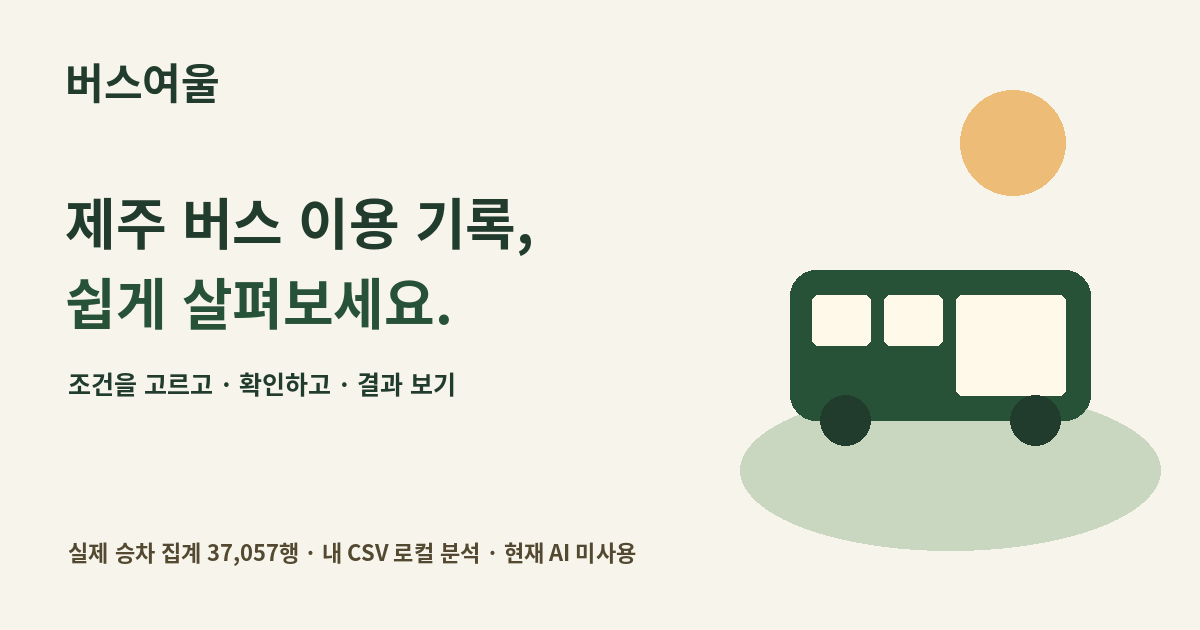
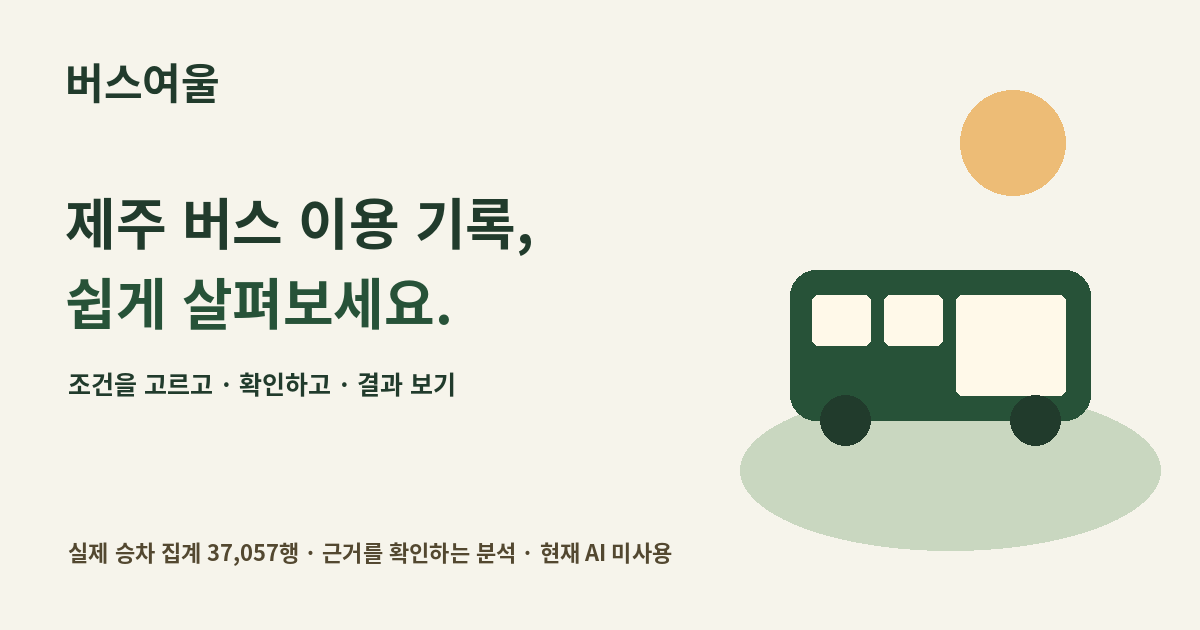
Focus the public interface on verified bus records

Changed region(s): [[0.2467, 0.8444, 0.555, 0.9048]]

diff --git a/web-demo/static/index.html b/web-demo/static/index.html
@@ -1,7 +1,7 @@
-<!doctype html><html lang="ko"><head><meta charset="utf-8"><meta name="viewport" content="width=device-width,initial-scale=1"><title>버스여울 웹 체험판</title><meta name="description" content="버스여울에서 제주 버스 데이터 분석 절차를 체험하세요. 합성 예제와 브라우저 내 CSV 분석을 제공하며 현재 AI는 실행하지 않습니다."><meta property="og:type" content="website"><meta property="og:locale" content="ko_KR"><meta property="og:site_name" content="버스여울"><meta property="og:title" content="버스여울 | 제주 버스 기록을 쉽게"><meta property="og:description" content="조건을 고르고, 확인하고, 결과 보기. 합성 예제 체험과 브라우저 내 CSV 분석 · 현재 AI 미사용"><meta property="og:url" content="https://busyeoul-demo.vercel.app/"><meta property="og:image" content="https://busyeoul-demo.vercel.app/static/social-preview.png"><meta property="og:image:type" content="image/png"><meta property="og:image:width" content="1200"><meta property="og:image:height" content="630"><meta property="og:image:alt" content="버스여울, 제주 버스 이용 기록을 쉽게 살펴보는 웹 체험판"><meta name="twitter:card" content="summary_large_image"><meta name="twitter:title" content="버스여울 | 제주 버스 기록을 쉽게"><meta name="twitter:description" content="합성 예제 체험과 브라우저 내 CSV 분석 · 현재 AI 미사용"><meta name="twitter:image" content="https://busyeoul-demo.vercel.app/static/social-preview.png"><link rel="icon" type="image/svg+xml" href="/static/favicon.svg"><link rel="stylesheet" href="/static/styles.css"><link rel="stylesheet" href="/static/local-csv.css"></head><body><a class="skip-link" href="#guided-input">분석 조건 선택으로 바로 가기</a>
-<header class="topbar"><a class="brand" href="/"><img class="brand-icon" src="/static/favicon.svg" width="48" height="48" alt=""> <span>버스여울 체험판<small>제주 버스 기록 살펴보기</small></span></a><span class="local-tag">합성 예제 · AI 미사용</span></header><main><div class="mode-notice" role="note"><strong>실제 데이터·AI 없는 절차 시연</strong><p>아래 체험은 합성 예제와 규칙만 사용합니다. 실제 제주 승차 기록이나 AI 응답이 아닙니다. 내 CSV 분석은 파일을 브라우저 안에서만 읽으며 서버에 보내지 않습니다. 질문에는 개인정보를 입력하지 마세요.</p></div><section id="local-csv-panel"></section>
+<!doctype html><html lang="ko"><head><meta charset="utf-8"><meta name="viewport" content="width=device-width,initial-scale=1"><title>버스여울 | 제주 버스 데이터 분석</title><meta name="description" content="버스여울에서 제주 버스 데이터 분석 절차를 체험하세요. 과거 승차 집계를 근거와 함께 살펴보며 현재 AI는 실행하지 않습니다."><meta property="og:type" content="website"><meta property="og:locale" content="ko_KR"><meta property="og:site_name" content="버스여울"><meta property="og:title" content="버스여울 | 제주 버스 기록을 쉽게"><meta property="og:description" content="조건을 고르고, 확인하고, 결과 보기. 제주 버스 기록의 흐름과 비교 근거 · 현재 AI 미사용"><meta property="og:url" content="https://busyeoul-demo.vercel.app/"><meta property="og:image" content="https://busyeoul-demo.vercel.app/static/social-preview.png"><meta property="og:image:type" content="image/png"><meta property="og:image:width" content="1200"><meta property="og:image:height" content="630"><meta property="og:image:alt" content="버스여울, 제주 버스 이용 기록을 쉽게 살펴보는 웹 체험판"><meta name="twitter:card" content="summary_large_image"><meta name="twitter:title" content="버스여울 | 제주 버스 기록을 쉽게"><meta name="twitter:description" content="제주 버스 기록의 흐름과 비교 근거 · 현재 AI 미사용"><meta name="twitter:image" content="https://busyeoul-demo.vercel.app/static/social-preview.png"><link rel="icon" type="image/svg+xml" href="/static/favicon.svg"><link rel="stylesheet" href="/static/styles.css"></head><body><a class="skip-link" href="#guided-input">분석 조건 선택으로 바로 가기</a>
+<header class="topbar"><a class="brand" href="/"><img class="brand-icon" src="/static/favicon.svg" width="48" height="48" alt=""> <span>버스여울<small>제주 버스 기록 살펴보기</small></span></a><span class="local-tag">합성 예제 · AI 미사용</span></header><main><div class="mode-notice" role="note"><strong>실제 데이터·AI 없는 절차 시연</strong><p>아래 체험은 합성 예제와 규칙만 사용합니다. 실제 제주 승차 기록이나 AI 응답이 아닙니다. 질문에는 개인정보를 입력하지 마세요.</p></div>
 <section class="hero"><div class="hero-copy"><p class="eyebrow">합성 자료로 분석 절차를 체험하세요</p><h1>제주 버스 이용 기록,<br><span>쉽게 살펴보세요.</span></h1><p class="lede">날짜와 보고 싶은 내용을 고르면 됩니다.<br>계산하기 전에 조건을 한 번 더 확인해요.</p><ol class="start-steps" aria-label="이용 순서"><li><b>1</b> 조건 고르기</li><li><b>2</b> 조건 확인하기</li><li><b>3</b> 결과 보기</li></ol></div><div class="hero-art" aria-hidden="true"><div class="art-sun"></div><svg viewBox="0 0 360 220"><path d="M0 180Q70 100 180 170T360 160V220H0Z" fill="#b2c6ac"/><rect x="88" y="103" width="175" height="83" rx="15" fill="#365c4a"/><rect x="104" y="116" width="35" height="29" rx="4" fill="#fff4d8"/><rect x="148" y="116" width="35" height="29" rx="4" fill="#fff4d8"/><rect x="192" y="116" width="52" height="53" rx="4" fill="#fff4d8"/><circle cx="125" cy="186" r="15" fill="#24392e"/><circle cx="225" cy="186" r="15" fill="#24392e"/></svg><div class="art-note">숫자 뒤의 조건까지<br>함께 살펴보는 분석.</div></div></section>
 <div class="mode-notice"><span>해석 전 꼭 확인하세요</span><strong>이용 기록은 혼잡도나 좌석 여유를 뜻하지 않아요.</strong><p>정류장·노선·지역 정보는 없습니다. 기록이 없는 조합을 이용자 0명으로 간주하지 않습니다.</p></div>
 <div class="workspace"><aside class="sources-panel panel"><div class="section-kicker">1 · 날짜와 유형</div><h2>언제, 누구의 기록인가요?</h2><div id="catalog-status" role="status">자료 정보를 불러오는 중…</div><form id="filters"><label for="start">시작일</label><input id="start" type="date" required><label for="end">종료일</label><input id="end" type="date" required><label for="user-type">이용자 유형</label><select id="user-type"><option>전체</option></select><p id="type-warning" class="muted" hidden>전체 유형은 미기록 영향으로 실제 평균을 추정하지 않습니다.</p></form><button id="retry" class="text-button" hidden>자료 정보 다시 불러오기 ↻</button><div class="source-footnote"><p id="catalog-detail"></p></div><div id="catalog-warnings"></div></aside>
 <section class="main-panel"><form id="question-form" class="question-panel panel"><div class="section-kicker">2 · 보고 싶은 내용</div><section id="guided-input" class="guided-input" aria-labelledby="guided-title"><h3 id="guided-title">무엇을 살펴볼까요?</h3><p class="muted">날짜와 이용자 유형을 먼저 고르고, 아래에서 보고 싶은 내용을 골라 주세요.</p><div class="guided-fields"><label for="guided-goal">보고 싶은 내용<select id="guided-goal"><option value="time">시간대 비교</option><option value="weekday">요일 비교</option><option value="month">월별 비교</option><option value="user_type">이용자 유형 비교</option><option value="summary">선택 범위 전체 요약</option></select></label><label for="guided-metric">숫자 계산 방법<select id="guided-metric"><option value="total">기록 합계</option><option value="daily">기록 일평균</option><option value="hourly" selected>기록 시간당 일평균</option></select></label></div><p id="guided-hint" class="muted" role="status"></p><button id="guided-plan" type="button" class="secondary" disabled>선택한 조건 확인하기 →</button><p class="muted">처음이라면 기본 선택 그대로 시작해도 됩니다. 기록이 빠진 부분은 따로 알려드려요.</p></section><details id="free-question" class="free-question"><summary>직접 질문 쓰기 · 두 기간 비교</summary><p class="muted">정해진 날짜·유형·집계 표현만 지원합니다. 복잡하거나 모호한 조건은 임의로 계산하지 않습니다.</p><label for="question"><h2>어떤 흐름이 궁금한가요?</h2></label><textarea id="question" rows="3" maxlength="500" placeholder="예: 시간대별 버스 이용 기록을 비교해줘"></textarea><div class="example-row"><button type="button" class="example">시간대별 이용 기록을 비교해줘</button><button type="button" class="example">요일별 이용 기록을 보여줘</button><button type="button" class="example">월별 이용 기록을 비교해줘</button><button type="button" class="example">이용자 유형별로 비교해줘</button></div><button type="button" class="example">2024년1월과2월 일반 일평균 비교</button><button type="button" class="example">2024-01-01~2024-01-07과 2024-02-05~2024-02-11 비교</button><p class="muted">처음이라면 1월·2월 예시를 선택하세요. 원지표 비교 조건을 확인한 뒤 결과의 요일 표준화와 수치 주장 검증을 이어갈 수 있습니다.</p><div class="form-bottom"><span>개인정보는 입력하지 마세요.</span><button id="analyze" class="primary" disabled>계획 확인하기 ↗</button></div></details></form><section id="plan-card" class="panel quality-panel" hidden aria-live="polite"><h2>계산할 조건을 확인해 주세요</h2><p class="muted">질문의 날짜·유형이 화면 필터보다 우선 적용될 수 있습니다. 아래 조건을 확인하세요.</p><div id="plan-detail"></div><div class="result-actions"><button id="edit-plan" type="button" class="secondary">조건 바꾸기</button><button id="confirm-plan" type="button" class="primary">맞아요, 이 조건으로 계산하기</button></div></section><div id="error" class="error-box" role="alert" hidden></div><button id="guided-recover" type="button" class="secondary" hidden>조건 선택으로 다시 질문하기</button><section id="loading" class="loading panel" role="status" hidden><div class="spinner"></div><strong>조건에 맞는 기록을 집계하고 있어요.</strong></section><section id="empty" class="empty panel"><div class="empty-icon"><img src="/static/favicon.svg" width="48" height="48" alt=""></div><h2>위에서 조건을 고르면 준비 끝!</h2><p>먼저 조건을 확인한 뒤, 직접 계산 버튼을 눌러 주세요.</p></section>
-<section id="results" aria-live="polite" hidden><div class="result-heading"><h2 id="result-title">분석 결과</h2><details class="save-actions"><summary>결과 저장 · 인쇄</summary><div class="result-actions"><button id="download" class="secondary">결과 JSON 저장 ↓</button><button id="csv-download" class="secondary">집계 CSV 저장 ↓</button><button id="print-report" class="secondary">인쇄 보고서</button></div></details></div><div id="summary" class="summary panel"></div><section class="panel chart-panel"><h3>기록 비교</h3><p id="chart-unit" class="muted"></p><div id="chart" tabindex="0" role="region" aria-label="비교 그래프, 좌우 이동 가능"></div></section><div id="warnings" class="warnings"></div><section id="quality" class="panel quality-panel" hidden></section><section id="claim-card" class="panel quality-panel" hidden><h3>이 주장을 데이터로 말해도 될까?</h3><p class="muted">두 기간의 수치 변화만 점검합니다. 자유 문장·혼잡도·정책 효과·고유 인원·인과는 검증하지 않습니다. 지표와 방향을 직접 골라 주세요.</p><div class="guided-fields"><label for="claim-metric">판단할 지표<select id="claim-metric" required><option value="">지표 선택</option><option value="total">관측 총합</option><option value="daily_mean">원래 기간 일평균</option><option value="weekday_standardized">요일 구성 표준화 일평균</option></select></label><label for="claim-direction">기간 B는 기간 A보다<select id="claim-direction" required><option value="">방향 선택</option><option value="increase">증가했다</option><option value="decrease">감소했다</option><option value="equal">같다</option></select></label></div><p id="claim-input-note" class="muted">지표와 방향을 모두 선택해야 확인 계획을 만들 수 있습니다.</p><button id="claim-plan" class="secondary" type="button" disabled>주장 확인 계획 보기</button></section><section id="claim-verification" class="panel quality-panel" hidden aria-live="polite"></section><section id="standardization-card" class="panel quality-panel" hidden><h3>요일 구성만 표준화한 별도 비교</h3><p>날짜는 그대로 두고 월~일의 비중을 각각 1/7로 맞춰 따로 비교합니다. 위 그래프와 자세한 숫자는 원래 기록을 유지합니다.</p><div id="standardization-detail"></div><p class="muted">요일 구성만 맞춘 기술적 비교입니다. 계절·공휴일·행사 등은 통제하지 않으며 인과 효과를 뜻하지 않습니다. 변화율은 기간 A 대비 % 변화이며 %p가 아닙니다.</p><button id="standardization-plan" type="button" class="secondary">원기간 유지·요일 구성 표준화 계획 확인</button></section><section id="repair-card" class="panel quality-panel" hidden><h3>원기간 안의 비교 후보</h3><div id="repair-detail"></div><p class="muted">원래 결과는 그대로 유지됩니다. 후보의 계획을 확인한 뒤 직접 승인해야 새로 분석합니다.</p><button id="repair-plan" class="secondary" type="button">이 후보로 계획 확인</button></section><section id="insights" class="panel quality-panel" hidden></section><section class="panel table-panel"><h3>자세한 숫자</h3><p class="muted">기록률은 있어야 할 기록 중 실제로 있는 기록의 비율입니다. 표가 넓으면 좌우로 밀어 보세요.</p><div class="table-scroll" tabindex="0" role="region" aria-label="상세 집계표, 좌우 이동 가능"><table><caption class="sr-only">기간별 원래 기록 합계와 계산값</caption><thead><tr><th>구분</th><th>합계</th><th>기록 조합</th><th>기대 조합</th><th>기록률</th><th>포함일수</th><th>구간시간(h)</th><th>시간당</th><th>그래프 표시값</th></tr></thead><tbody id="table-body"></tbody></table></div></section><details class="trace panel"><summary>분석 과정과 출처</summary><p id="stats"></p><ol id="steps"></ol><div id="sources"></div></details><p class="result-caution">이 결과로 특정 버스의 혼잡도, 배차, 노선 또는 지역별 이용량을 판단할 수 없습니다.</p></section></section></div><footer><strong>버스여울 체험판</strong><span>더 나은 비교는, 정확한 조건에서.</span><small>데이터 분석 프로토타입 · 실시간 정보 아님</small></footer></main><script src="/static/app.js" defer></script><script src="/static/local-csv.js" defer></script></body></html>
+<section id="results" aria-live="polite" hidden><div class="result-heading"><h2 id="result-title">분석 결과</h2><details class="save-actions"><summary>결과 저장 · 인쇄</summary><div class="result-actions"><button id="download" class="secondary">결과 JSON 저장 ↓</button><button id="csv-download" class="secondary">집계 CSV 저장 ↓</button><button id="print-report" class="secondary">인쇄 보고서</button></div></details></div><div id="summary" class="summary panel"></div><section class="panel chart-panel"><h3>기록 비교</h3><p id="chart-unit" class="muted"></p><div id="chart" tabindex="0" role="region" aria-label="비교 그래프, 좌우 이동 가능"></div></section><div id="warnings" class="warnings"></div><section id="quality" class="panel quality-panel" hidden></section><section id="claim-card" class="panel quality-panel" hidden><h3>이 주장을 데이터로 말해도 될까?</h3><p class="muted">두 기간의 수치 변화만 점검합니다. 자유 문장·혼잡도·정책 효과·고유 인원·인과는 검증하지 않습니다. 지표와 방향을 직접 골라 주세요.</p><div class="guided-fields"><label for="claim-metric">판단할 지표<select id="claim-metric" required><option value="">지표 선택</option><option value="total">관측 총합</option><option value="daily_mean">원래 기간 일평균</option><option value="weekday_standardized">요일 구성 표준화 일평균</option></select></label><label for="claim-direction">기간 B는 기간 A보다<select id="claim-direction" required><option value="">방향 선택</option><option value="increase">증가했다</option><option value="decrease">감소했다</option><option value="equal">같다</option></select></label></div><p id="claim-input-note" class="muted">지표와 방향을 모두 선택해야 확인 계획을 만들 수 있습니다.</p><button id="claim-plan" class="secondary" type="button" disabled>주장 확인 계획 보기</button></section><section id="claim-verification" class="panel quality-panel" hidden aria-live="polite"></section><section id="standardization-card" class="panel quality-panel" hidden><h3>요일 구성만 표준화한 별도 비교</h3><p>날짜는 그대로 두고 월~일의 비중을 각각 1/7로 맞춰 따로 비교합니다. 위 그래프와 자세한 숫자는 원래 기록을 유지합니다.</p><div id="standardization-detail"></div><p class="muted">요일 구성만 맞춘 기술적 비교입니다. 계절·공휴일·행사 등은 통제하지 않으며 인과 효과를 뜻하지 않습니다. 변화율은 기간 A 대비 % 변화이며 %p가 아닙니다.</p><button id="standardization-plan" type="button" class="secondary">원기간 유지·요일 구성 표준화 계획 확인</button></section><section id="repair-card" class="panel quality-panel" hidden><h3>원기간 안의 비교 후보</h3><div id="repair-detail"></div><p class="muted">원래 결과는 그대로 유지됩니다. 후보의 계획을 확인한 뒤 직접 승인해야 새로 분석합니다.</p><button id="repair-plan" class="secondary" type="button">이 후보로 계획 확인</button></section><section id="insights" class="panel quality-panel" hidden></section><section class="panel table-panel"><h3>자세한 숫자</h3><p class="muted">기록률은 있어야 할 기록 중 실제로 있는 기록의 비율입니다. 표가 넓으면 좌우로 밀어 보세요.</p><div class="table-scroll" tabindex="0" role="region" aria-label="상세 집계표, 좌우 이동 가능"><table><caption class="sr-only">기간별 원래 기록 합계와 계산값</caption><thead><tr><th>구분</th><th>합계</th><th>기록 조합</th><th>기대 조합</th><th>기록률</th><th>포함일수</th><th>구간시간(h)</th><th>시간당</th><th>그래프 표시값</th></tr></thead><tbody id="table-body"></tbody></table></div></section><details class="trace panel"><summary>분석 과정과 출처</summary><p id="stats"></p><ol id="steps"></ol><div id="sources"></div></details><p class="result-caution">이 결과로 특정 버스의 혼잡도, 배차, 노선 또는 지역별 이용량을 판단할 수 없습니다.</p></section></section></div><footer><strong>버스여울</strong><span>더 나은 비교는, 정확한 조건에서.</span><small>데이터 분석 프로토타입 · 실시간 정보 아님</small></footer></main><script src="/static/app.js" defer></script></body></html>

diff --git a/web-demo/app.py b/web-demo/app.py
@@ -39,14 +39,14 @@ def home():
     if get_mode()=='real':
         html=html.replace('합성 예제 체험과 브라우저 내 CSV 분석', '실제 제주 버스 집계와 브라우저 내 CSV 분석').replace('합성 예제와 브라우저 내 CSV 분석', '실제 제주 버스 집계와 브라우저 내 CSV 분석')
         html=html.replace('실제 데이터·AI 없는 절차 시연','실제 제주 버스 승차 집계 분석 · 현재 AI 미사용')
-        html=html.replace('아래 체험은 합성 예제와 규칙만 사용합니다. 실제 제주 승차 기록이나 AI 응답이 아닙니다.','아래 분석은 사용자 제공 실제 제주 버스 승차 집계를 사용합니다. 현재 계산은 규칙 기반이며 AI는 실행하지 않습니다. 원본 포털 현행 조건과 파일 버전 동일성은 대조하지 못했고 공식 2차 메타의 CC0 표기를 근거로 사용합니다.')
+        html=html.replace('아래 체험은 합성 예제와 규칙만 사용합니다. 실제 제주 승차 기록이나 AI 응답이 아닙니다.','실제 제주 버스 승차 집계 37,057행을 분석합니다. 현재 AI 없이 검증된 계산식으로 집계합니다. 출처·이용조건과 해석 한계는 자료 정보에서 확인하세요.')
         html=html.replace('합성 예제 · AI 미사용','실제 집계 · AI 미사용').replace('합성 자료로 분석 절차를 체험하세요','실제 제주 버스 기록을 근거와 함께 살펴보세요')
     return html
 
 
 @app.get('/static/<name>')
 def static_file(name):
-    if name not in {'styles.css','app.js','local-csv.js','local-csv.css','favicon.svg','social-preview.png'}:return jsonify(error='찾을 수 없습니다.'),404
+    if name not in {'styles.css','app.js','favicon.svg','social-preview.png'}:return jsonify(error='찾을 수 없습니다.'),404
     return send_from_directory('static',name)
 
 @app.get('/api/catalog')

diff --git a/web-demo/tests/test_real_mode.py b/web-demo/tests/test_real_mode.py
@@ -32,7 +32,8 @@ class RealModeTests(unittest.TestCase):
         self.assertIn('실제 제주 버스 승차 집계', html)
         self.assertIn('현재 AI 미사용', html)
         self.assertNotIn('실제 데이터·AI 없는 절차 시연', html)
-        self.assertIn('파일을 브라우저 안에서만 읽으며 서버에 보내지 않습니다', html)
+        self.assertNotIn('local-csv-panel', html)
+        self.assertNotIn('/static/local-csv.js', html)
 
     def test_raw_source_has_no_public_http_route(self):
         for path in ('/data/bus.csv', '/static/bus.csv', '/bus.csv'):

diff --git a/web-demo/DEPLOYMENT.md b/web-demo/DEPLOYMENT.md
@@ -25,3 +25,5 @@
 - 40개 단위·회귀 검사 통과. AI 관련 검사는 모두 mock이며 실제 모델 성능 검증이 아닙니다.
 
 공개 배포 후 실제 Chromium에서 37,057행·672개 날짜와 출처 경고를 확인했습니다. 2024년 1~2월 일반 유형 계획→명시 승인→집계 결과 합계 431,590/414,442, 일평균 13,922.26/14,291.1 및 요일 구성 차이에 따른 단순 증감 보류를 확인했습니다. 공개 GitHub의 gzip을 다시 내려받아 풀었을 때 원본 SHA-256과 일치했습니다.
+
+사용자 요청으로 공개 화면의 내 CSV 로컬 분석 패널과 관련 스크립트·스타일 참조를 제거했습니다. 해당 정적 경로도 공개 허용 목록에서 제거했습니다. 기존 테스트 모듈은 과거 기능 회귀 자료로만 남아 있고 현재 화면에서 실행하지 않습니다.
